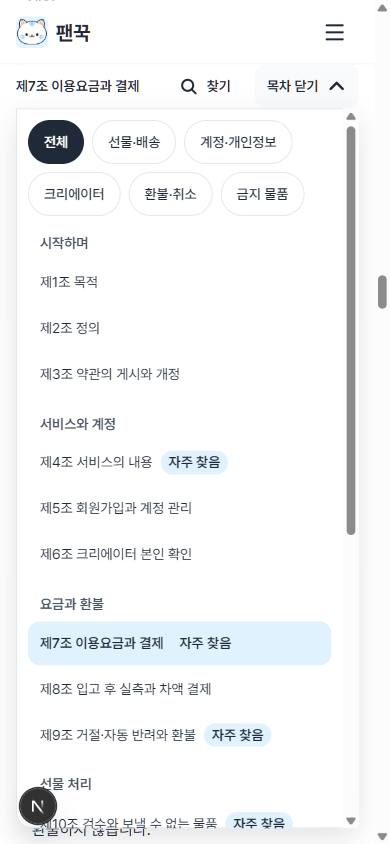
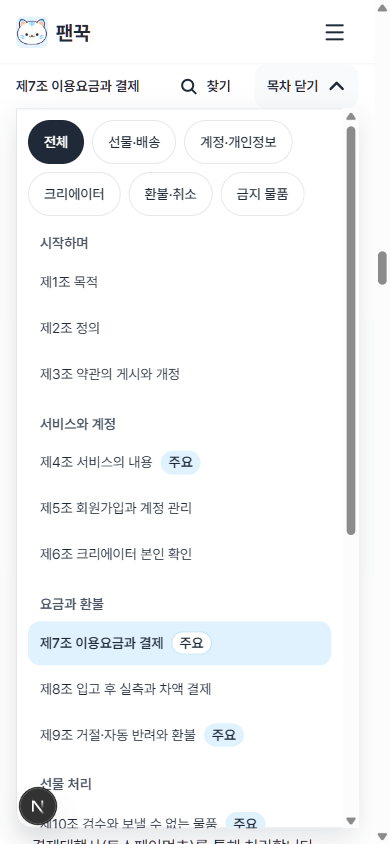
fix(fankkuk): /terms ui 리뷰 반영 — 지금 조 줄 위 「주요」 배지는 흰 알약+테두리, 14절 상자 나누기 규칙, terms 명세 바뀐 모습, 미리보기 재촬영 — /terms 4단계 ux·ui 통과

diff --git a/projects/fankkuk/src/widgets/legal/ui/doc-page.module.css b/projects/fankkuk/src/widgets/legal/ui/doc-page.module.css
@@ -60,7 +60,7 @@
 /* 회색 글자 위에 겹치면 3.6:1 — 표시한 낱말은 늘 짙은 글자 */
 .mark { padding: 0; background: var(--tint-line); color: var(--gray-900); }
 
-/* 「자주 찾음」(원칙 ③) */
+/* 「주요」(원칙 ③) */
 .badge { flex: none; display: inline-flex; align-items: center; padding: 2px var(--space-2); border-radius: var(--r-pill); background: var(--primary-50); color: var(--gray-900); font-family: var(--font); font-size: var(--fs-small); font-weight: var(--fw-btn); line-height: 1.4; white-space: nowrap; }
 
 /* 위에 붙는 목차 줄 — 첫 화면에서는 제자리, 스크롤하면 상단 바 아래에 붙는다. 붙는 범위는 조가 든 칸(.flow) 안 */
@@ -84,6 +84,8 @@
 .tocLabel { flex: 0 1 auto; min-width: 0; overflow-wrap: anywhere; }
 .tocLink:hover { background: var(--gray-100); }
 .tocLink[aria-current] { background: var(--primary-50); font-weight: var(--fw-btn); }
+/* 지금 조 줄도 하늘 면이라 「주요」 알약이 묻힌다 — 그 줄 위에서는 흰 알약 + 테두리 */
+.tocLink[aria-current] .badge { background: var(--white); box-shadow: inset 0 0 0 1px var(--tint-line); }
 .tocLink:focus-visible { outline: 2px solid var(--focus); outline-offset: -2px; }
 /* 칩으로 가린 조 — 흐리게(누르면 「전체」로 돌아가 그 조로 간다). 흐린 글자는 gray-500 아래로 내리지 않는다(4.5:1) */
 .tocLink.dim:not([aria-current]) { color: var(--gray-500); }

diff --git a/projects/fankkuk/docs/design/design-rules.md b/projects/fankkuk/docs/design/design-rules.md
@@ -343,6 +343,7 @@ status: approved
 - **머리**: 세 글 탭(알약 높이 40, 지금 글은 짙은 면 + 흰 글자) → 제목 32 · 설명(680) → 사실 한 줄(버전 · 시행일 · 운영 · 「버전 기록 보기」, 사이 가는 세로선 — 767 이하는 선 없이 간격만) → 「먼저 세 가지만 알아 두세요」 판(옅은 하늘 면, 반경 24, 하늘 동그라미 번호 26).
 - **본문**(2026-10-18 로그인 전 폭이 880 이 되어 아래 「976보다 좁으면」 배치가 늘 나온다 — 16절): 왼쪽 따라오는 목차 248 + 사이 48 + 글 기둥 680. 목차는 묶음 제목(약관만 다섯 묶음) 아래 조 링크, 지금 읽는 조는 하늘 면. 목차가 화면보다 길면 목차 칸 안에서 스크롤하고 표시된 줄을 따라간다. 글 자리가 976보다 좁으면(로그인해 왼쪽 메뉴가 있는 1024 등) 목차는 글 위 접는 칸이 되고, 글 기둥은 그때도 680.
 - **조**: 위 구분선 + 안 40 · 회색 알약 꼬리표 「제N조」(조 번호가 없는 글은 꼬리표 없음) · 제목 24 · 글 줄 간격 1.75.
+- **상자 나누기**(2026-10-23, document-pages 기준 8): 정의·경우별 줄 상자가 한 화면(900)을 넘으면 같은 순서로 상자를 나눠 연달아 둔다, 사이 12(글 사이 간격과 같음). 글과 줄 순서는 그대로.
 - **글 모양**: 정의는 테두리 상자 한 덩어리 안에 낱말(굵게) · 뜻(회색) 줄. 경우별 줄(환불 표 등)도 같은 상자에 줄마다 제목 + 이름 180 · 값 두 칸(767 이하 위아래). 요금은 표 — 머리 줄 회색 면, 첫 금액 칸만 20 굵게, 금액은 줄바꿈 없이.
 - **끝**: 버전 기록(회색 면 줄 + 「지금 시행 중」 하늘 꼬리표) → 「OO에서 이해가 안 되는 부분이 있나요?」 판 + 고객센터 버튼.
 - **4조 진행 단계 칩**(2026-10-18 비교 시안 compare-omitted.html, 사용자 「추천대로하자」): 회색 면 안에 이름표 「진행 상황 6단계」 · 흰 칩 여섯(화면의 단계 이름 그대로, 칩 뒤 ›) · 「크리에이터의 승인은 검수와 출고 사이에 따로 표시합니다.」 한 줄. 하늘색으로 칠한 칩은 없다. 시안의 「승인 확인」 칩(일곱째)과 「6단계로 보여요」 문장은 쓰지 않는다 — 수가 어긋나고 약관 안 문장은 「~합니다」.

diff --git a/projects/fankkuk/docs/ux/pages/terms.md b/projects/fankkuk/docs/ux/pages/terms.md
@@ -79,3 +79,19 @@ status: approved
 ## 스펙 참조
 
 - 스펙 없음(문서형 — 화면 기능 규칙이 없다). 글 안의 요금 숫자는 결제와 같은 DB 요금표(payment INV-M1)를 읽기만 한다.
+
+## 바뀐 모습 (2026-10-23, 문서형 3·4단계 — 위 표는 바뀌기 전 기록)
+
+| 요소 | 보이는 상태 | 정상 / 예외 | 근거 |
+|---|---|---|---|
+| 왼쪽 따라오는 목차 · 글 위 접는 목차 | **없앰** — 아래 붙는 줄로 대신 | — | 차이 목록 D1 ② |
+| 위에 붙는 줄(높이 44): 지금 조 이름 · 「찾기」 · 「목차 열기」 — `doc-toc-bar.tsx` | 늘(모든 폭, 스크롤하면 상단 바 아래에 붙음) | 정상 | 원칙 ①, 기준 1·2·10 |
+| 펼친 목차: 분류 칩 줄 · 다섯 묶음 · 19개 조 · 지금 조 칠함 · 「주요」 배지 | 「목차 열기」를 눌렀을 때 | 정상 | D1 ② 조건(1), 원칙 ③ |
+| 검색칸 「이 글에서 찾기」 + 「N개 조에서 발견」 · 이전/다음 | 늘(머리 아래) | 정상 | 원칙 ①, 기준 3 |
+| 분류 칩 6개(전체 · 선물·배송 · 계정·개인정보 · 크리에이터 · 환불·취소 · 금지 물품) | 늘 | 정상 — 칩을 고르면 그 분류 조만 남고 나머지는 목차에서 흐림 | 원칙 ②, 기준 4 |
+| 「주요」 배지 — 제4·7·9·10·16조 | 늘 | 정상 | 원칙 ③, 기준 5 |
+| 요약 세 줄 → 제4·9·16조 링크 | 늘 | 정상 | 원칙 ④, 기준 6 |
+| 조 주소 복사 단추(44) · 「복사됨」 2초 | 제목에 마우스·초점이 갈 때 | 정상 | 원칙 ⑤, 기준 7 |
+| 제2조 정의 상자 둘(4줄 · 3줄) · 제9조 경우 상자 셋(3 · 3 · 2줄) | 늘 | 정상 | 기준 8 — 1440·1280·390 최대 430·430·673 |
+
+데이터 표(조 id · 분류 · 주요 · 요약 링크)는 사용자가 2026-10-23 확정했고 `info-pages.test.ts` 가 고정한다.
